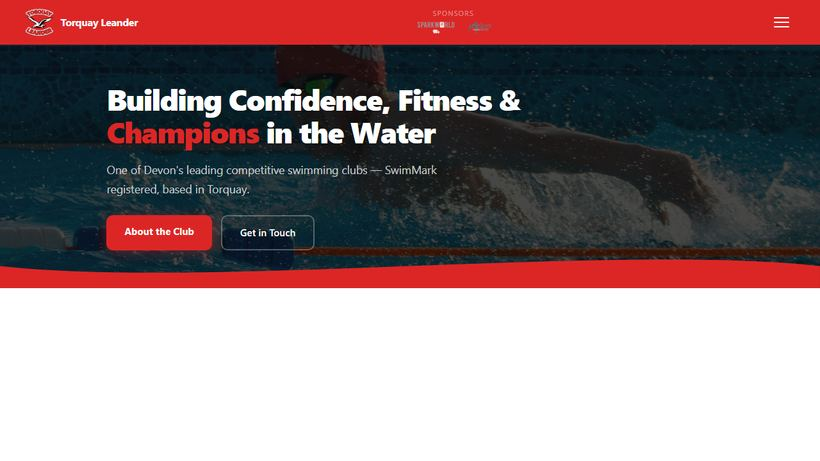
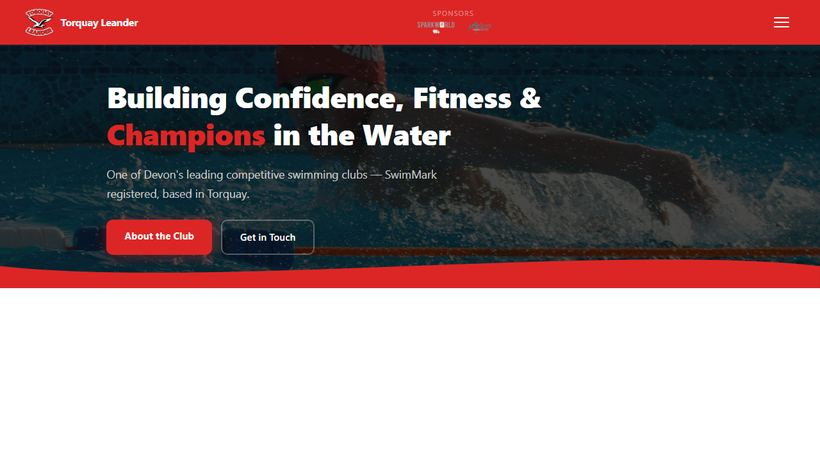
Hero: slim headline just above intro-text size; Original kept as sample
Live h1 drops to clamp(1.35rem, 1.25rem+0.4vw, 1.5rem) - barely
larger than the 1.1rem intro - with line-height/letter-spacing eased
for the smaller size. /samples/hero/ gains an Original variant
restoring the initial clamp(2.4rem,5vw,4rem) type (with its old
mobile override) as a 5th option, added to the scorecard and captured
across all five devices (25 shots, blank-scanned).

Dev-server note: Astro dev served stale page styles for the new
variant until restarted - captures are post-restart.

Claude-Session: https://claude.ai/code/session_01CwamtCHtqhpxnLkvYvuCTs

Changed region(s): [[0.122, 0.1822, 0.6707, 0.3341], [0.122, 0.3644, 0.5488, 0.577]]

diff --git a/src/styles/global.css b/src/styles/global.css
@@ -90,11 +90,11 @@ nav {
   margin-bottom: 24px;
 }
 .hero h1 {
-  /* 002 §2: one clamp for every device — reduced from clamp(2.4rem, 5vw, 4rem),
-     and deliberately narrow (2rem–2.6rem) so phones and desktops look similar */
-  font-size: clamp(2rem, 1.6rem + 1.6vw, 2.6rem);
-  font-weight: 900; line-height: 1.1;
-  letter-spacing: -1.5px;
+  /* 002 §2: headline sits just above the intro text size (1.1rem) — only a
+     little bigger, uniform on every device. Larger versions at /samples/hero/. */
+  font-size: clamp(1.35rem, 1.25rem + 0.4vw, 1.5rem);
+  font-weight: 900; line-height: 1.25;
+  letter-spacing: -0.4px;
   margin-bottom: 20px;
 }
 .hero h1 em { color: var(--red); font-style: normal; }

diff --git a/docs/002-mail-changes/reply-mail.md b/docs/002-mail-changes/reply-mail.md
@@ -27,7 +27,7 @@ Below I've split things into what I need from you, decisions I've made that you 
 
 **Logo treatment** — after trying a few variations ([you can see them all here](https://michal-ciechan.github.io/torquay-leander/samples/logo/) — tap any one to preview it on the real site, then hit **Share** to send your choice to me) I've gone with adding a **thick white outline around the words**, to make it more readable at the smaller size a logo actually appears at. The standard logo looks fine small on the black footer, so we could keep that one there, but for now I've used the same thick outline in both places for consistency.
 
-**Hero banner** — I've kept the full-screen banner for now but made the "Building Confidence…" headline noticeably smaller, and the same size on every device, which takes away most of the dominance. I also mocked up four treatments — full screen, compact (~3/4 height), a half-height banner, and a side-by-side layout — and scored them against a fixed set of criteria; [the comparison and scorecard are here](https://michal-ciechan.github.io/torquay-leander/samples/hero/), with real above-the-fold screenshots under each option for iPhone SE, iPhone 15 Pro Max, iPad, and 720p/1080p screens. Compact actually scored best (it shows visitors the page continues below), so say the word if you'd like to switch to it.
+**Hero banner** — I've kept the full-screen banner for now but taken the "Building Confidence…" headline right down — it now sits only slightly larger than the intro text beneath it, the same on every device, so the photo carries the impact rather than the type. The original large-type version is preserved as a sample for comparison. I also mocked up four treatments — full screen, compact (~3/4 height), a half-height banner, and a side-by-side layout — and scored them against a fixed set of criteria; [the comparison and scorecard are here](https://michal-ciechan.github.io/torquay-leander/samples/hero/), with real above-the-fold screenshots under each option for iPhone SE, iPhone 15 Pro Max, iPad, and 720p/1080p screens. Compact actually scored best (it shows visitors the page continues below), so say the word if you'd like to switch to it.
 
 **Championship event names** — your email lists events in shorthand ("100IM", "25 Backstroke"); the page has always written them out in full ("100m Individual Medley"), so I've kept that style for the 2026 programme. [Both versions side by side here](https://michal-ciechan.github.io/torquay-leander/samples/club-championships/) — say the word if you'd rather use the short names.
 

diff --git a/docs/002-mail-changes/tasks.md b/docs/002-mail-changes/tasks.md
@@ -29,7 +29,7 @@ Attachments expected (not in raw.md):
 
 ## 2. Home page
 
-- [x] **Hero banner** — Compress / de-emphasise main title banner (“Building Confidence…”) so it is less dominant. *(done — full-screen height kept for now with a smaller unified headline, clamp(2rem–2.6rem) on every device; compact + other treatments and per-device fold screenshots at `/samples/hero/`)*
+- [x] **Hero banner** — Compress / de-emphasise main title banner (“Building Confidence…”) so it is less dominant. *(done — full-screen kept; headline slimmed to just above intro-text size (clamp 1.35–1.5rem), uniform on all devices. Original large-type version + compact/banner/split treatments with per-device fold screenshots at `/samples/hero/`)*
 - [x] **News feed (replaces Upcoming Meets)** — Add a Facebook page feed section titled **News**, in place of the current “Upcoming meets” block. *(one and the same task — the News section IS the replacement; done via Facebook Page Plugin iframe of facebook.com/torquayleander)*
   > **Note (site check):** the Facebook page URL is known — `facebook.com/torquayleander`. "Upcoming Meets" is a sidebar `<aside>` in a two-column grid beside the welcome text on `index.astro`; the News feed takes over that aside.
 
